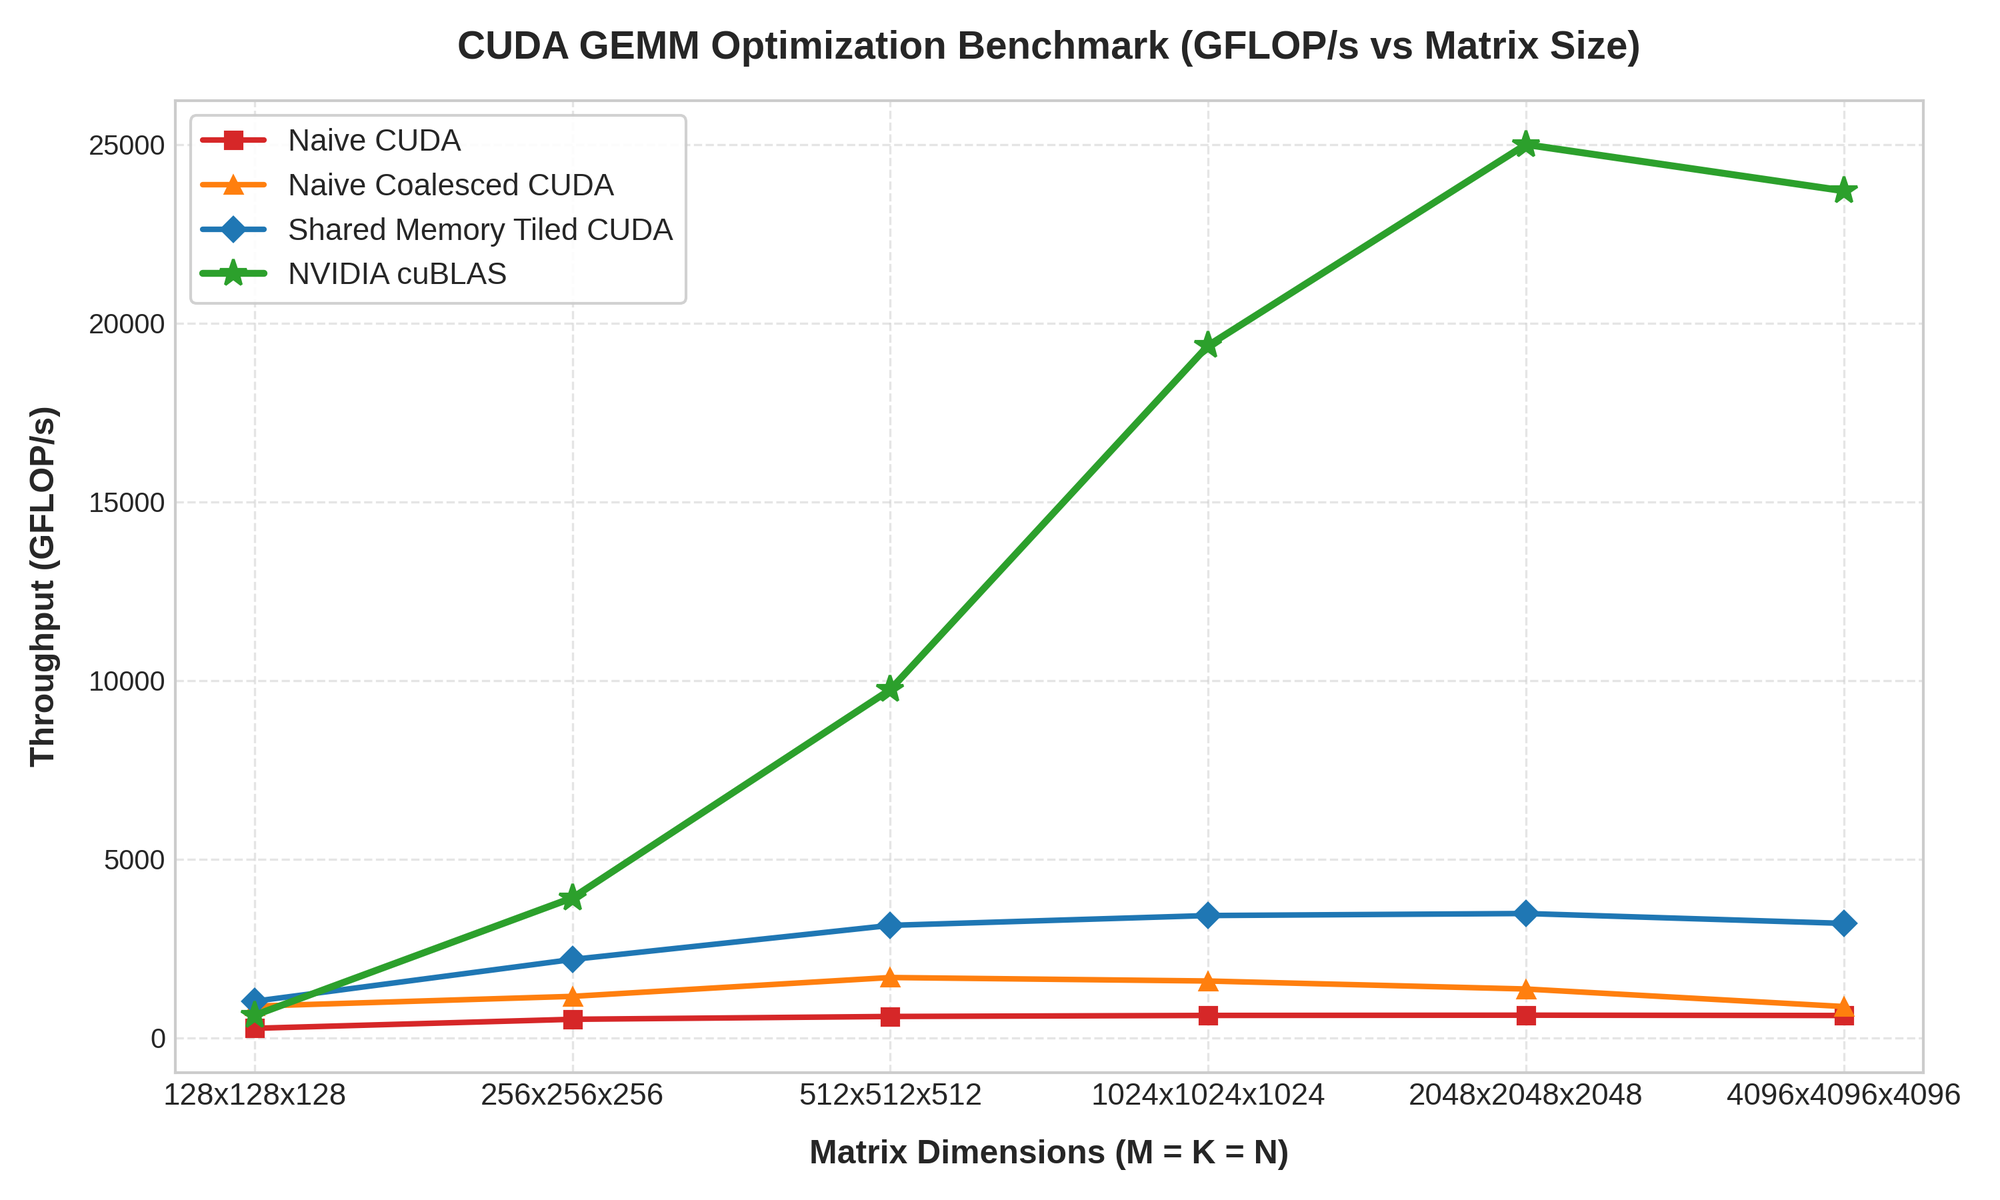
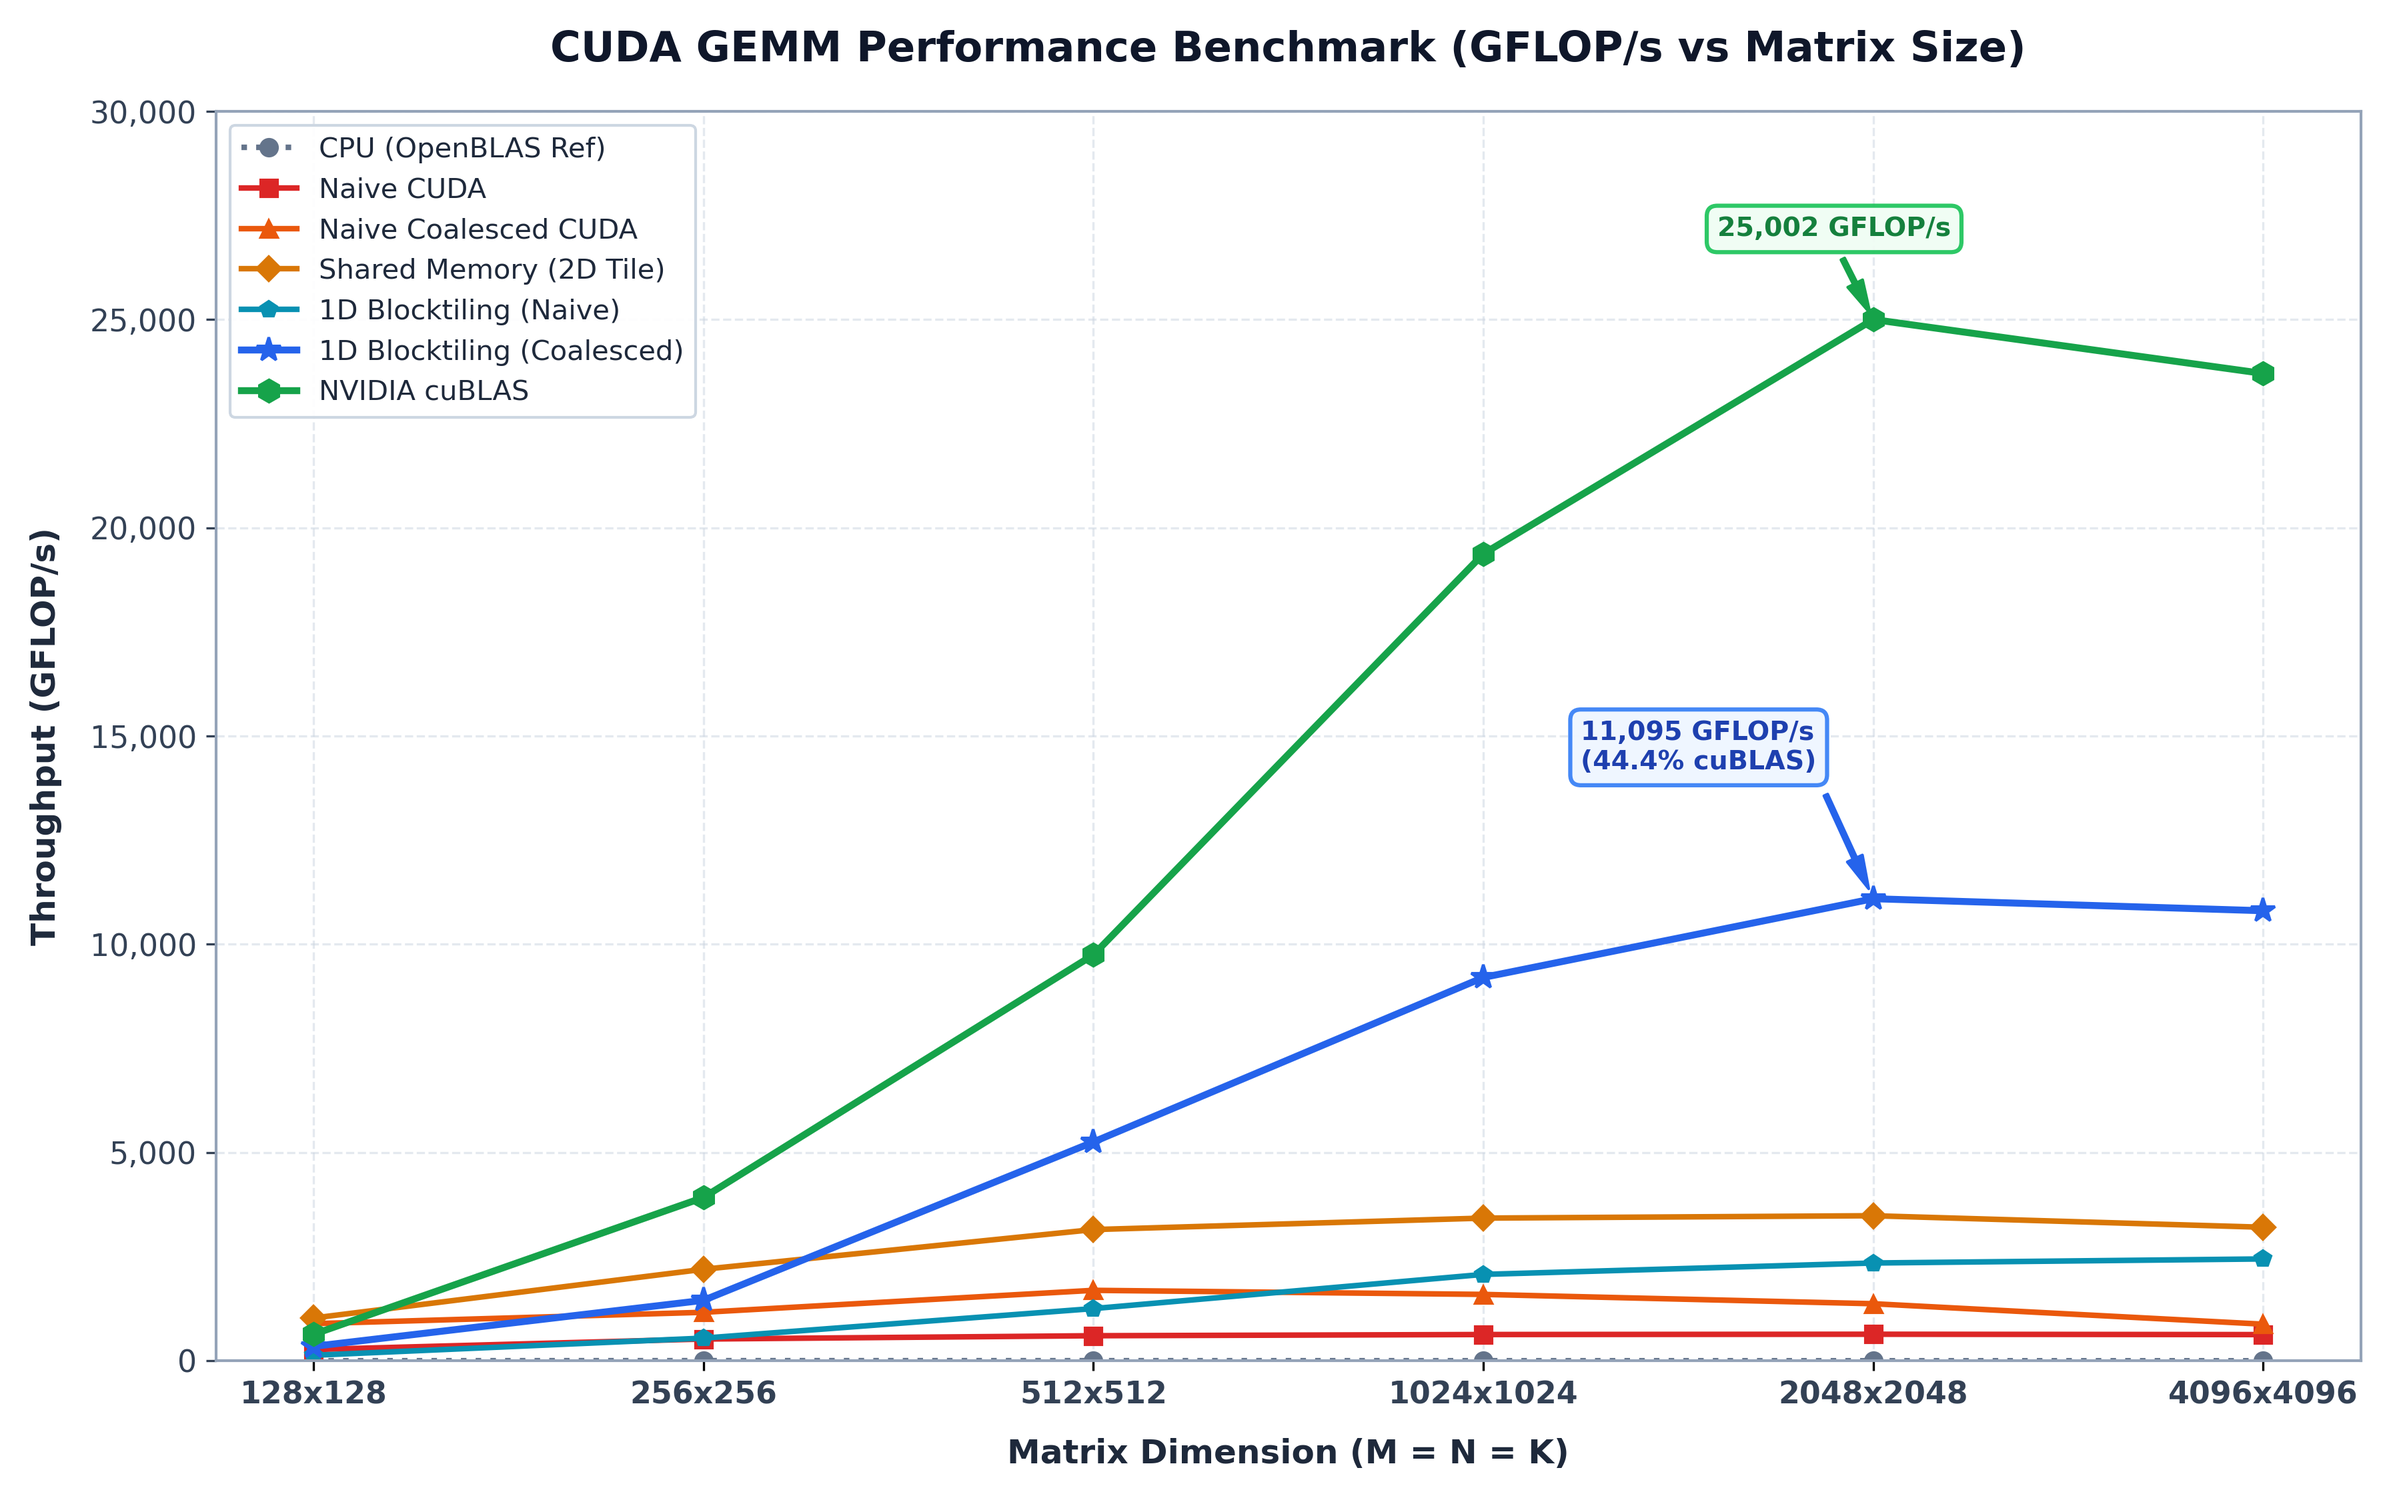
bench naive and coalesced 1d blocktiled implementation

diff --git a/README.md b/README.md
@@ -12,7 +12,9 @@ Matrix multiplication ($C = A \times B$) is the foundational computational kerne
 2. **Naive CUDA Kernel** (`src/naive.cu`): Baseline 2D grid implementation without coalescing.
 3. **Coalesced Memory Access** (`src/naive_coalescing.cu`): Optimizing global memory access patterns to align with GPU warp read transactions.
 4. **Shared Memory Tiling** (`src/smem_caching.cu`): Block-level caching in shared memory ($16 \times 16$ tile size) to drastically reduce global memory bandwidth bottleneck.
-5. **NVIDIA cuBLAS** (`src/cublas.cu`): Production-grade vendor library performance benchmark (`cublasSgemm`).
+5. **1D Block Tiling (Naive)** (`src/1d_blocktiling_naive.cu`): Thread-level 1D register tiling ($4 \times 1$ per thread work allocation) with shared memory caching, but uncoalesced global memory loads.
+6. **1D Block Tiling (Coalesced)** (`src/1d_blocktiling_coalescing.cu`): Combining 1D thread block tiling with coalesced global memory transfers to drastically improve arithmetic intensity and bandwidth efficiency.
+7. **NVIDIA cuBLAS** (`src/cublas.cu`): Production-grade vendor library performance benchmark (`cublasSgemm`).
 
 All implementations compute $C = A \times B$ for square single-precision floating-point matrices ($M = K = N$) and automatically validate their output against OpenBLAS `cblas_sgemm` to verify floating-point precision correctness.
 
@@ -38,14 +40,14 @@ All benchmarks were recorded on the following system:
 
 ### Comparative Benchmark Results
 
-| Matrix Size ($M \times K \times N$) | CPU (OpenBLAS Ref) | Naive CUDA | Naive Coalesced CUDA | Shared Memory (Smem) | NVIDIA cuBLAS |
-| :--- | :---: | :---: | :---: | :---: | :---: |
-| **$128 \times 128 \times 128$** | 1.13 GFLOP/s *(3.72 ms)* | 269.97 GFLOP/s *(0.016 ms)* | 891.04 GFLOP/s *(0.0047 ms)* | **1027.21 GFLOP/s** *(0.0041 ms)* | 635.96 GFLOP/s *(0.0066 ms)* |
-| **$256 \times 256 \times 256$** | 2.92 GFLOP/s *(11.49 ms)* | 522.36 GFLOP/s *(0.064 ms)* | 1164.05 GFLOP/s *(0.0288 ms)* | **2197.35 GFLOP/s** *(0.0153 ms)* | **3921.38 GFLOP/s** *(0.0086 ms)* |
-| **$512 \times 512 \times 512$** | 2.34 GFLOP/s *(114.90 ms)* | 601.35 GFLOP/s *(0.446 ms)* | 1691.49 GFLOP/s *(0.1587 ms)* | **3150.30 GFLOP/s** *(0.0852 ms)* | **9747.40 GFLOP/s** *(0.0275 ms)* |
-| **$1024 \times 1024 \times 1024$** | 1.36 GFLOP/s *(1582.75 ms)* | 630.45 GFLOP/s *(3.406 ms)* | 1593.81 GFLOP/s *(1.347 ms)* | **3425.77 GFLOP/s** *(0.6269 ms)* | **19375.47 GFLOP/s** *(0.1108 ms)* |
-| **$2048 \times 2048 \times 2048$** | 0.73 GFLOP/s *(23483.45 ms)* | 637.28 GFLOP/s *(26.96 ms)* | 1369.91 GFLOP/s *(12.54 ms)* | **3482.72 GFLOP/s** *(4.933 ms)* | **25001.50 GFLOP/s** *(0.687 ms)* |
-| **$4096 \times 4096 \times 4096$** | 0.35 GFLOP/s *(395621.22 ms)* | 628.64 GFLOP/s *(218.63 ms)* | 878.98 GFLOP/s *(156.36 ms)* | **3206.16 GFLOP/s** *(42.87 ms)* | **23706.17 GFLOP/s** *(5.798 ms)* |
+| Matrix Size ($M \times K \times N$) | CPU<br>(OpenBLAS Ref) | Naive<br>CUDA | Naive Coalesced<br>CUDA | Shared Memory<br>(2D Tile) | 1D Blocktiling<br>(Naive) | 1D Blocktiling<br>(Coalesced) | NVIDIA<br>cuBLAS |
+| :--- | :---: | :---: | :---: | :---: | :---: | :---: | :---: |
+| **$128 \times 128 \times 128$** | 1.13&nbsp;GFLOP/s<br>*(3.72 ms)* | 269.97&nbsp;GFLOP/s<br>*(0.016 ms)* | 891.04&nbsp;GFLOP/s<br>*(0.0047 ms)* | **1027.21&nbsp;GFLOP/s**<br>*(0.0041 ms)* | 132.46&nbsp;GFLOP/s<br>*(0.0317 ms)* | 346.02&nbsp;GFLOP/s<br>*(0.0121 ms)* | 635.96&nbsp;GFLOP/s<br>*(0.0066 ms)* |
+| **$256 \times 256 \times 256$** | 2.92&nbsp;GFLOP/s<br>*(11.49 ms)* | 522.36&nbsp;GFLOP/s<br>*(0.064 ms)* | 1164.05&nbsp;GFLOP/s<br>*(0.0288 ms)* | 2197.35&nbsp;GFLOP/s<br>*(0.0153 ms)* | 543.92&nbsp;GFLOP/s<br>*(0.0617 ms)* | 1451.72&nbsp;GFLOP/s<br>*(0.0231 ms)* | **3921.38&nbsp;GFLOP/s**<br>*(0.0086 ms)* |
+| **$512 \times 512 \times 512$** | 2.34&nbsp;GFLOP/s<br>*(114.90 ms)* | 601.35&nbsp;GFLOP/s<br>*(0.446 ms)* | 1691.49&nbsp;GFLOP/s<br>*(0.1587 ms)* | 3150.30&nbsp;GFLOP/s<br>*(0.0852 ms)* | 1253.23&nbsp;GFLOP/s<br>*(0.2142 ms)* | **5253.39&nbsp;GFLOP/s**<br>*(0.0511 ms)* | **9747.40&nbsp;GFLOP/s**<br>*(0.0275 ms)* |
+| **$1024 \times 1024 \times 1024$** | 1.36&nbsp;GFLOP/s<br>*(1582.75 ms)* | 630.45&nbsp;GFLOP/s<br>*(3.406 ms)* | 1593.81&nbsp;GFLOP/s<br>*(1.347 ms)* | 3425.77&nbsp;GFLOP/s<br>*(0.6269 ms)* | 2073.89&nbsp;GFLOP/s<br>*(1.0355 ms)* | **9204.09&nbsp;GFLOP/s**<br>*(0.2333 ms)* | **19375.47&nbsp;GFLOP/s**<br>*(0.1108 ms)* |
+| **$2048 \times 2048 \times 2048$** | 0.73&nbsp;GFLOP/s<br>*(23483.45 ms)* | 637.28&nbsp;GFLOP/s<br>*(26.96 ms)* | 1369.91&nbsp;GFLOP/s<br>*(12.54 ms)* | 3482.72&nbsp;GFLOP/s<br>*(4.933 ms)* | 2347.49&nbsp;GFLOP/s<br>*(7.318 ms)* | **11094.55&nbsp;GFLOP/s**<br>*(1.548 ms)* | **25001.50&nbsp;GFLOP/s**<br>*(0.687 ms)* |
+| **$4096 \times 4096 \times 4096$** | 0.35&nbsp;GFLOP/s<br>*(395621.22 ms)* | 628.64&nbsp;GFLOP/s<br>*(218.63 ms)* | 878.98&nbsp;GFLOP/s<br>*(156.36 ms)* | 3206.16&nbsp;GFLOP/s<br>*(42.87 ms)* | 2445.39&nbsp;GFLOP/s<br>*(56.20 ms)* | **10805.50&nbsp;GFLOP/s**<br>*(12.72 ms)* | **23706.17&nbsp;GFLOP/s**<br>*(5.798 ms)* |
 
 > All benchmarks report **PASS** with maximum absolute numerical error bounded under $3.5 \times 10^{-4}$ against OpenBLAS reference outputs.
 
@@ -64,13 +66,16 @@ All benchmarks were recorded on the following system:
 | **CPU (OpenBLAS Ref)** | 23483.45 ms | 0.73 GFLOP/s | 0.003% |
 | **Naive CUDA** | 26.96 ms | 637.28 GFLOP/s | 2.55% |
 | **Naive Coalesced CUDA** | 12.54 ms | 1369.91 GFLOP/s | 5.48% |
+| **1D Block Tiling (Naive)** | 7.318 ms | 2347.49 GFLOP/s | 9.39% |
 | **Shared Memory (Smem) Tiled** | 4.933 ms | 3482.72 GFLOP/s | 13.93% |
+| **1D Block Tiling (Coalesced)** | 1.548 ms | 11094.55 GFLOP/s | **44.38%** |
 | **NVIDIA cuBLAS** | 0.687 ms | 25001.50 GFLOP/s | **100.00%** |
 
 1. **CPU vs GPU Baseline**: Even the naive uncoalesced CUDA kernel achieves a **~870x speedup** over single-threaded C++ GEMM at $2048 \times 2048$ matrix size due to massive parallel execution across GPU cores.
 2. **Coalesced Memory Access**: Reordering memory indexing to align contiguous thread accesses within a warp yields a **~2.1x speedup** over naive indexing at $2048 \times 2048$, resolving unaligned memory transactions.
-3. **Shared Memory Tiling**: By loading $16 \times 16$ matrix tiles into high-speed `__shared__` memory and synchronizing threads (`__syncthreads()`), global memory traffic is reduced by a factor of 16. This increases throughput from **1369.91 GFLOP/s** (Coalesced) to **3482.72 GFLOP/s** (Shared Memory)—a **2.54x improvement**.
-4. **cuBLAS Peak Performance**: cuBLAS reaches **25 TFLOP/s** throughput at $2048 \times 2048$. It achieves this level by leveraging hardware-level features such as register tiling (2D thread tiling), vectorized memory operations (`float4` / `LDG.128`), warp shuffle instructions, and hardware Tensor Cores.
+3. **Shared Memory Tiling (2D Tile)**: By loading $16 \times 16$ matrix tiles into high-speed `__shared__` memory and synchronizing threads (`__syncthreads()`), global memory traffic is reduced by a factor of 16. This increases throughput from **1369.91 GFLOP/s** (Coalesced) to **3482.72 GFLOP/s** (Shared Memory)—a **2.54x improvement**.
+4. **1D Block Tiling & Register Reuse**: Assigning multiple output elements ($TM = 16$) to each thread's register space significantly improves arithmetic intensity. When paired with coalesced global memory loads (`1d_blocktiling_coalescing.cu`), performance skyrockets to **11094.55 GFLOP/s** (11.1 TFLOP/s)—a **3.19x speedup** over 2D Shared Memory Tiling and reaching **44.38% of cuBLAS performance**. Without coalesced loading (`1d_blocktiling_naive.cu`), unaligned memory accesses constrain performance to **2347.49 GFLOP/s**, highlighting that aligned memory transfers remain critical even with register caching.
+5. **cuBLAS Peak Performance**: cuBLAS reaches **25 TFLOP/s** throughput at $2048 \times 2048$. It achieves this level by leveraging hardware-level features such as 2D thread tiling (register tiling in both dimensions), vectorized memory operations (`float4` / `LDG.128`), warp shuffle instructions, double buffering/pipelining, and hardware Tensor Cores.
 
 ---
 
@@ -79,6 +84,7 @@ All benchmarks were recorded on the following system:
 ```
 cuda-gemm/
 ├── benchmarks/                        # Pre-computed benchmark execution logs & plots
+│   ├── 1d_blocktiling_benchmark       # Benchmark log for 1D Blocktiling implementations
 │   ├── cpu_benchmark.txt
 │   ├── cublas_benchmark.txt
 │   ├── gflops_vs_matrix_size.png      # Generated benchmark chart
@@ -86,6 +92,8 @@ cuda-gemm/
 │   ├── naive_coalescing_benchmark.txt
 │   └── smem_benchmark.txt
 ├── src/                               # Source implementations
+│   ├── 1d_blocktiling_coalescing.cu   # 1D blocktiling CUDA kernel with coalesced loads
+│   ├── 1d_blocktiling_naive.cu        # 1D blocktiling CUDA kernel (uncoalesced)
 │   ├── cpu.cpp                        # CPU OpenBLAS reference & GEMM baseline
 │   ├── cublas.cu                      # cuBLAS benchmark
 │   ├── naive.cu                       # Uncoalesced CUDA kernel
@@ -104,6 +112,7 @@ Individual execution logs are stored in the [`benchmarks/`](./benchmarks/) folde
 - [`benchmarks/naive_benchmark.txt`](./benchmarks/naive_benchmark.txt)
 - [`benchmarks/naive_coalescing_benchmark.txt`](./benchmarks/naive_coalescing_benchmark.txt)
 - [`benchmarks/smem_benchmark.txt`](./benchmarks/smem_benchmark.txt)
+- [`benchmarks/1d_blocktiling_benchmark`](./benchmarks/1d_blocktiling_benchmark)
 - [`benchmarks/cublas_benchmark.txt`](./benchmarks/cublas_benchmark.txt)
 
 ---
